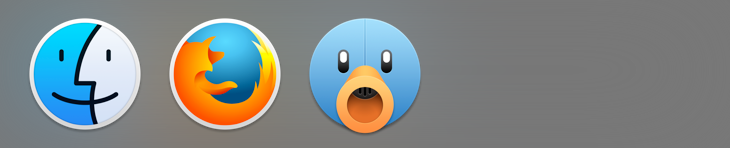
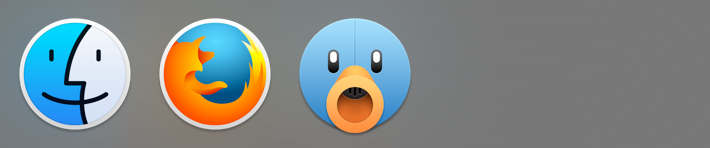
Sharper previews and url fix

diff --git a/README.md b/README.md
@@ -40,7 +40,7 @@ Twitter by [@fellipea_silva](http://twitter.com/fellipea_silva)
 
 ---
 
-![](https://raw.githubusercontent.com/mmarfil/yoios/master/Previews/mathiasmelian_preview.png)
+![](https://raw.githubusercontent.com/mmarfil/yoios/master/Previews/matiasmelian_preview.png)
 
 Instapaper (ReadKit) by [@iMAMDev](http://twitter.com/iMAMDev)
 
